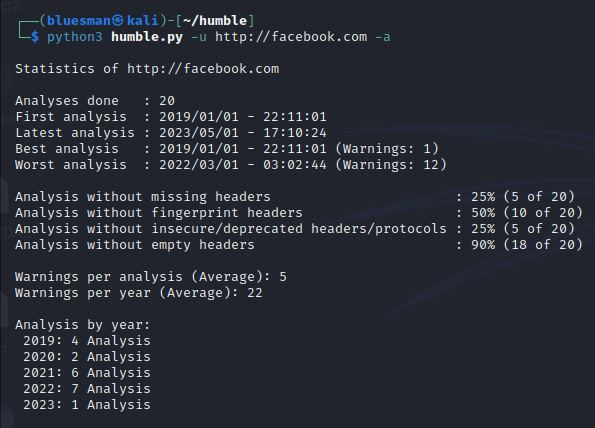
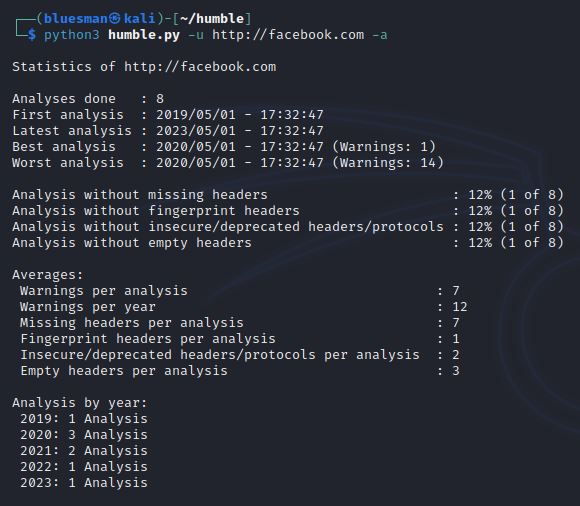
Additional statistics (averages per analysis)
Missing, fingerpring, insecure/deprecated and empty headers

Changed region(s): [[0.0, 0.0, 0.9931, 0.972], [0.7759, 0.6682, 0.8069, 0.729]]

diff --git a/humble.py b/humble.py
@@ -199,6 +199,16 @@ def extract_second_metrics(url_ln, index, total_a):
 {get_history_detail('[pdf_po]')}{total_a})"
 
 
+def extract_third_metrics(url_ln):
+    fields = [line.strip().split(';') for line in url_ln]
+    total_miss, total_fng, total_dep, total_ety = \
+        [sum(int(f[i]) for f in fields) for i in range(2, 6)]
+    num_a = len(url_ln)
+    avg_miss, avg_fng, avg_dep, avg_ety = \
+        [t // num_a for t in (total_miss, total_fng, total_dep, total_ety)]
+    return (avg_miss, avg_fng, avg_dep, avg_ety)
+
+
 def extract_year_metrics(url_ln):
     year_cnt = {}
     for line in url_ln:
@@ -232,11 +242,12 @@ def extract_metrics(c_history):
     first_m = extract_first_metrics(url_ln)
     second_m = [extract_second_metrics(url_ln, i, total_a) for i in
                 range(2, 6)]
+    third_m = extract_third_metrics(url_ln)
     additional_m = extract_additional_metrics(url_ln)
-    return print_metrics(total_a, first_m, second_m, additional_m)
+    return print_metrics(total_a, first_m, second_m, third_m, additional_m)
 
 
-def print_metrics(total_a, first_m, second_m, additional_m):
+def print_metrics(total_a, first_m, second_m, third_m, additional_m):
     basic_m = {'[total_analysis]': total_a, '[first_analysis_a]': first_m[0],
                '[latest_analysis]': first_m[1], '[best_analysis]':
                f"{first_m[2]} \
@@ -246,10 +257,13 @@ def print_metrics(total_a, first_m, second_m, additional_m):
     error_m = {'[no_missing]': second_m[0], '[no_fingerprint]': second_m[1],
                '[no_ins_deprecated]': second_m[2],
                '[no_empty]': second_m[3] + "\n"}
-    warning_m = {'[average_warnings]': f"{additional_m[0]}",
-                 '[average_warnings_year]': f"{additional_m[2]}\n"}
+    warning_m = {'[averages]': "", '[average_warnings]': f"{additional_m[0]}",
+                 '[average_warnings_year]': f"{additional_m[2]}"}
+    averages_m = {'[average_miss]': f"{third_m[0]}", '[average_fng]':
+                  f"{third_m[1]}", '[average_dep]': f"{third_m[2]}",
+                  '[average_ety]': f"{third_m[3]}\n"}
     analysis_year_m = {'[analysis_year]': f"\n{additional_m[1]}"}
-    totals_m = basic_m | error_m | warning_m | analysis_year_m
+    totals_m = basic_m | error_m | warning_m | averages_m | analysis_year_m
     return {get_history_detail(key): value for key, value in totals_m.items()}
 
 
